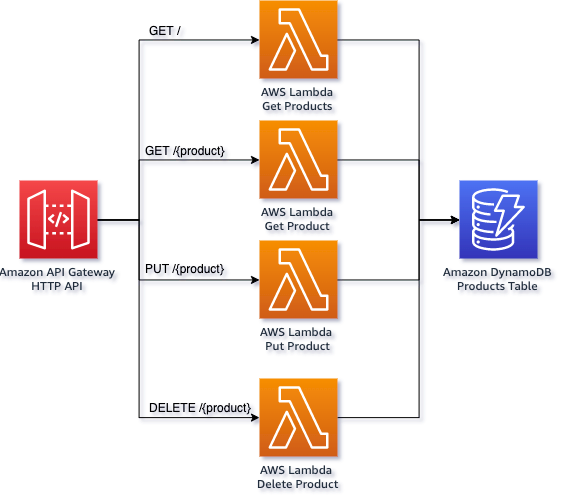
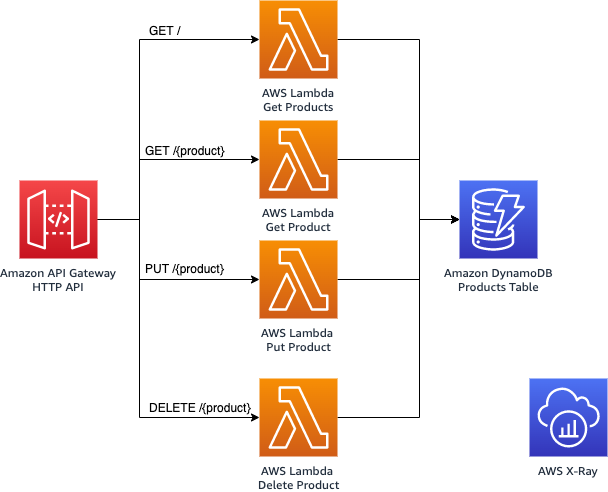
Adding the AWS X-Ray tracing interceptor for the DynamoDB client.

Changed region(s): [[0.0, 0.0, 0.9947, 1.0], [0.844, 0.7622, 1.0, 0.9756]]

diff --git a/README.md b/README.md
@@ -80,6 +80,30 @@ filter @type="REPORT"
   <img src="imgs/performance_results.png" alt="CloudWatch Logs Insights results"/>
 </p>
 
+## AWS X-Ray Tracing
+
+You can add additional detail to your X-Ray tracing by adding a TracingInterceptor to your AWS SDK clients. Here
+is the code for my DynamoDbClient from the [DynamoDbProductStore](https://github.com/aws-samples/serverless-graalvm-demo/blob/aws-xray-support/software/products/src/main/java/software/amazonaws/example/product/store/dynamodb/DynamoDbProductStore.java) 
+class.
+
+```java
+private final DynamoDbClient dynamoDbClient = DynamoDbClient.builder()
+        .credentialsProvider(EnvironmentVariableCredentialsProvider.create())
+        .region(Region.of(System.getenv(SdkSystemSetting.AWS_REGION.environmentVariable())))
+        .overrideConfiguration(ClientOverrideConfiguration.builder()
+                .addExecutionInterceptor(new TracingInterceptor())
+                .build())
+        .build();
+```
+
+<p align="center">
+  <img src="imgs/xray-cold.png" alt="Cold start X-Ray trace"/>
+</p>
+
+<p align="center">
+  <img src="imgs/xray-warm.png" alt="Warm start X-Ray trace"/>
+</p>
+
 ## 👀 With other languages
 
 You can find implementations of this project in other languages here:
